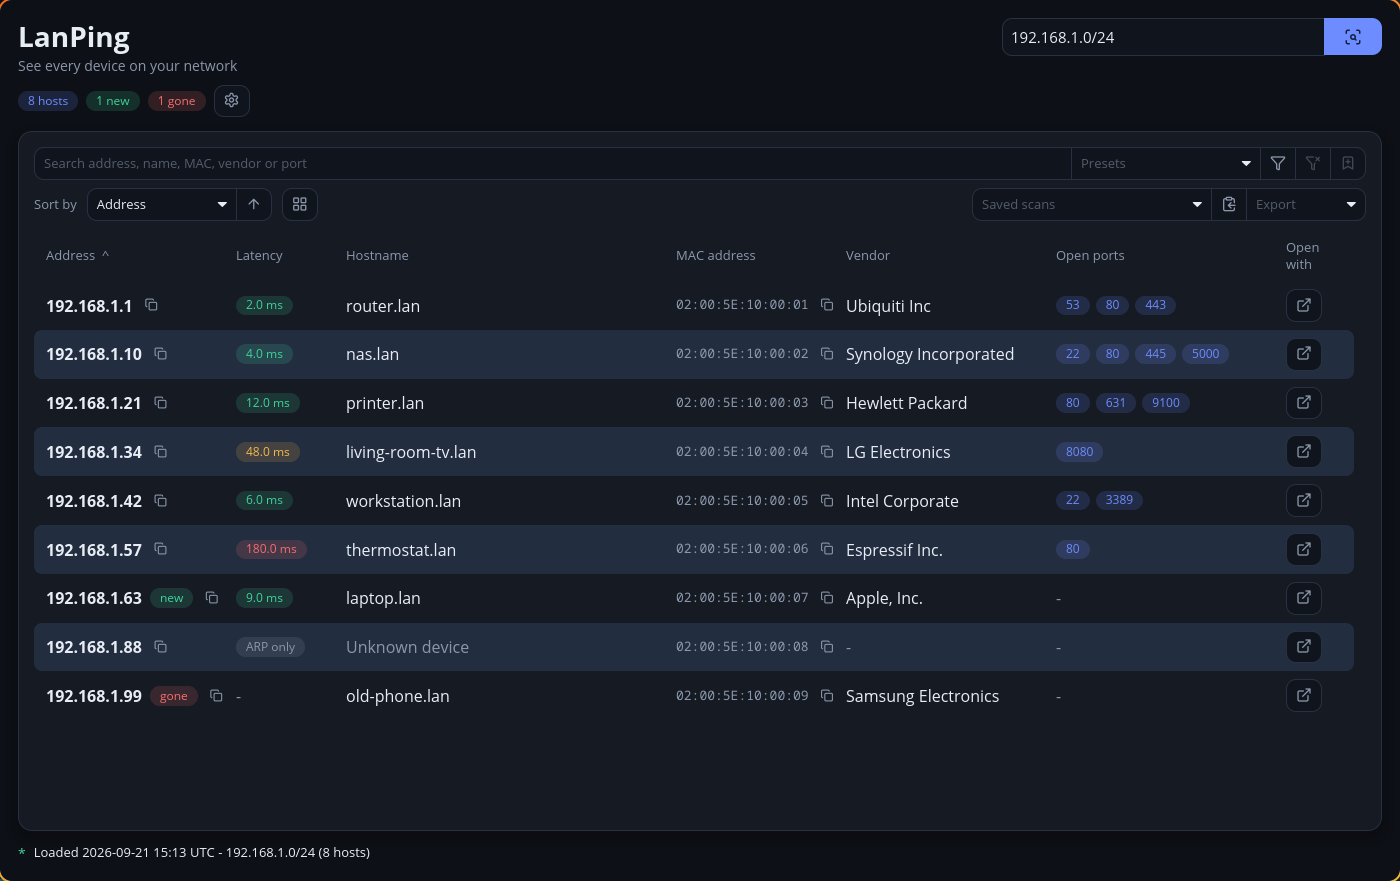
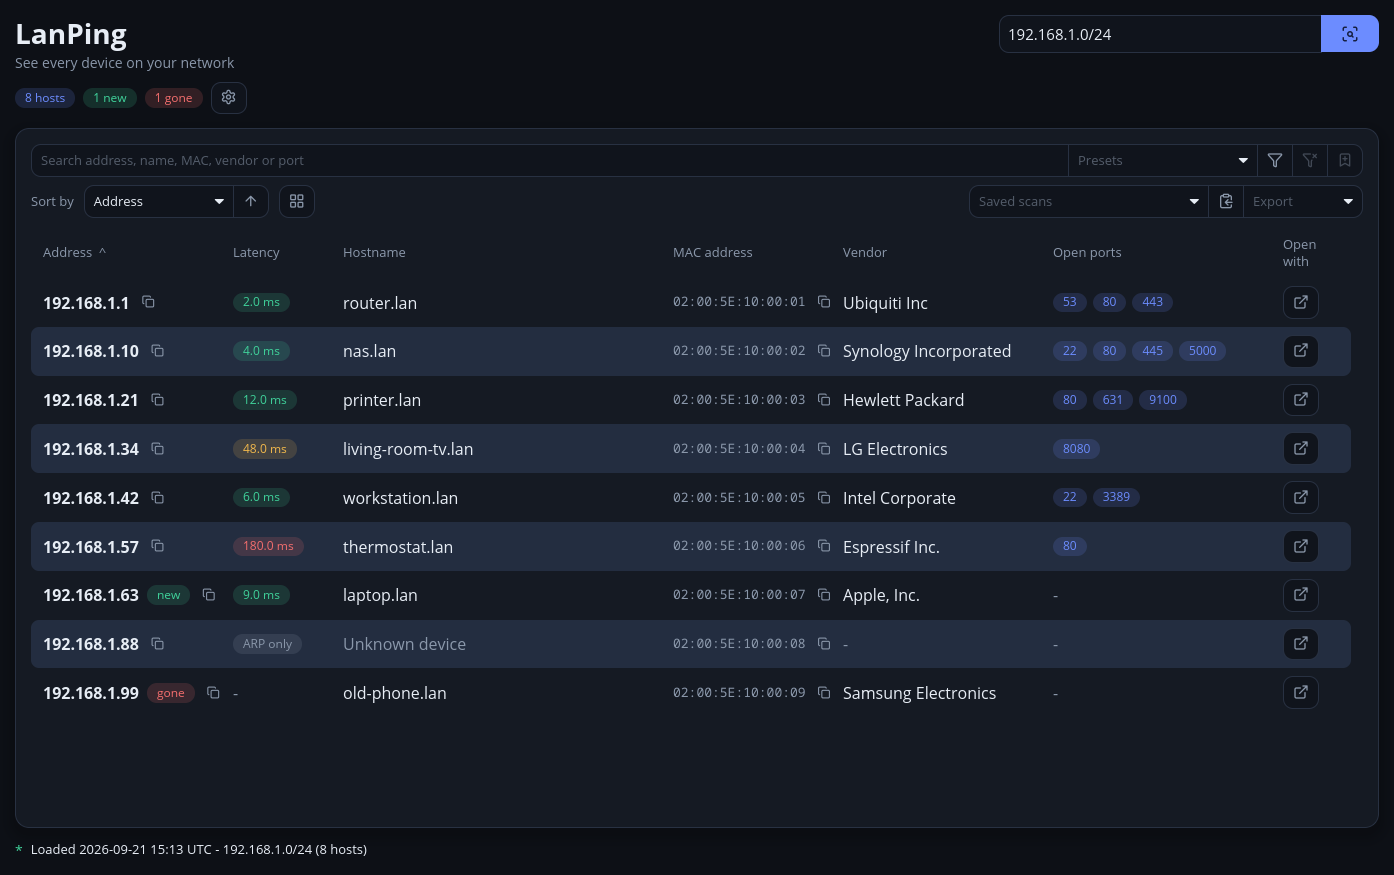
docs: centered README header, download section and current features

diff --git a/README.md b/README.md
@@ -1,33 +1,63 @@
-<img src="packaging/lanping.svg" alt="" width="96" align="right">
+<div align="center">
+
+<img src="packaging/lanping.svg" alt="" width="120">
 
 # LanPing
+
+**See every device on your network.**
+
+A LAN scanner for the desktop, written in Rust with an [Iced](https://iced.rs) GUI. No root or admin rights needed.
 
 [![CI](https://github.com/Gren-95/lanping/actions/workflows/ci.yml/badge.svg)](https://github.com/Gren-95/lanping/actions/workflows/ci.yml)
 [![Release](https://img.shields.io/github/v/release/Gren-95/lanping)](https://github.com/Gren-95/lanping/releases/latest)
 [![License](https://img.shields.io/badge/license-MIT%20OR%20Apache--2.0-blue)](#license)
 [![Rust 1.90+](https://img.shields.io/badge/rust-1.90%2B-orange)](https://www.rust-lang.org)
 
-Cross-platform LAN scanner written in Rust with an [Iced](https://iced.rs) GUI.
+[**Download**](https://github.com/Gren-95/lanping/releases/latest)
 
-![LanPing showing a made-up network](docs/screenshot.png)
+<img src="docs/screenshot.png" alt="LanPing showing a made-up network" width="800">
 
-*The screenshot uses the made-up scans in `docs/demo`.*
+<sub>The screenshot uses the made-up scans in <code>docs/demo</code>.</sub>
+
+</div>
+
+## Download
+
+Get the latest build from [Releases](https://github.com/Gren-95/lanping/releases/latest):
+
+- **Linux:** `LanPing-<version>-x86_64.AppImage`. Make it executable with `chmod +x`, then run it.
+- **Windows:** `LanPing-<version>-x86_64.exe`. It is unsigned, so SmartScreen warns on first launch.
+
+macOS has no prebuilt download and is untested.
 
 ## Features
 
+**Scanning**
+
 - Scan a CIDR block, an address range or a single IP (`192.168.0.0/24`, `10.0.0.1-50`)
 - Runs without root or admin rights: ICMP datagram sockets, TCP connect probes and the OS ARP cache
-- Hostname lookup, MAC address and vendor (IEEE OUI registry embedded)
-- TCP port scan of live hosts for the ports ticked in Settings (list from Wikipedia); untick them all to skip it
-- Optional service banners (SSH version, web server and similar), shown on hover and in "Open with"
-- Network picker with physical interfaces and Tailscale devices; virtual adapters (Docker, VMs, VPNs) are hidden by default and can be shown in Settings
-- Sortable results with filters (text, latency, status, vendor, port, name) and presets
-- Customizable columns; CSV and JSON export (to the Downloads folder)
+- Hostname, MAC address and vendor (IEEE OUI registry embedded), plus IPv6 addresses from the neighbor cache
+- TCP port scan of live hosts for the ports ticked in Settings; untick them all to skip it
+- Optional service banners, such as the SSH version or web server
+- Suggestions for your networks and Tailscale devices as you type; virtual adapters (Docker, VMs, VPNs) are hidden by default
+- Optional scans at startup, on a timer or when the main network changes, with a desktop notification for new devices
+
+**Results**
+
+- Sortable table or card view, with search, filters and saved presets
+- Reorder and hide columns by dragging, from Settings or by right-clicking a column header
+- Click a device for its ports, banners and history across scans
+- Devices are tagged new, changed or gone against the previous scan of the same network
+- Name your devices; names are stored by MAC address, so they follow a device between scans
 - Every finished scan is saved and can be reopened from "Saved scans"
-- Rescan comparison: devices are tagged new, changed or gone against the previous scan of the same network
-- Device names stored by MAC address, so labels follow a device between scans
-- Wake-on-LAN and "Open with" actions: browser, SMB share, copy SSH command, copy details
-- Automatic rescans with a desktop notification when a new device appears
+- Export to CSV or JSON, or copy the visible rows
+
+**Actions**
+
+- Open in a browser or browse an SMB share
+- Ping, traceroute and Wake-on-LAN
+- Copy the SSH command, IP, MAC or hostname
+- Keyboard shortcuts: Ctrl+F to search, Enter to scan, Esc to clear filters or close a dialog
 
 ## Build and run
 
@@ -56,7 +86,7 @@ Any saved scan file can be opened the same way: `lanping path/to/scan.json`.
 
 ## Releases
 
-Pushing a version tag (`git tag v0.1.0 && git push origin v0.1.0`) builds the Linux AppImage and the Windows `.exe` in GitHub Actions and attaches them to a GitHub Release.
+Pushing a version tag (`git tag v0.2.0 && git push origin v0.2.0`) builds the Linux AppImage and the Windows `.exe` in GitHub Actions and attaches them to a GitHub Release.
 
 ## Layout
 
